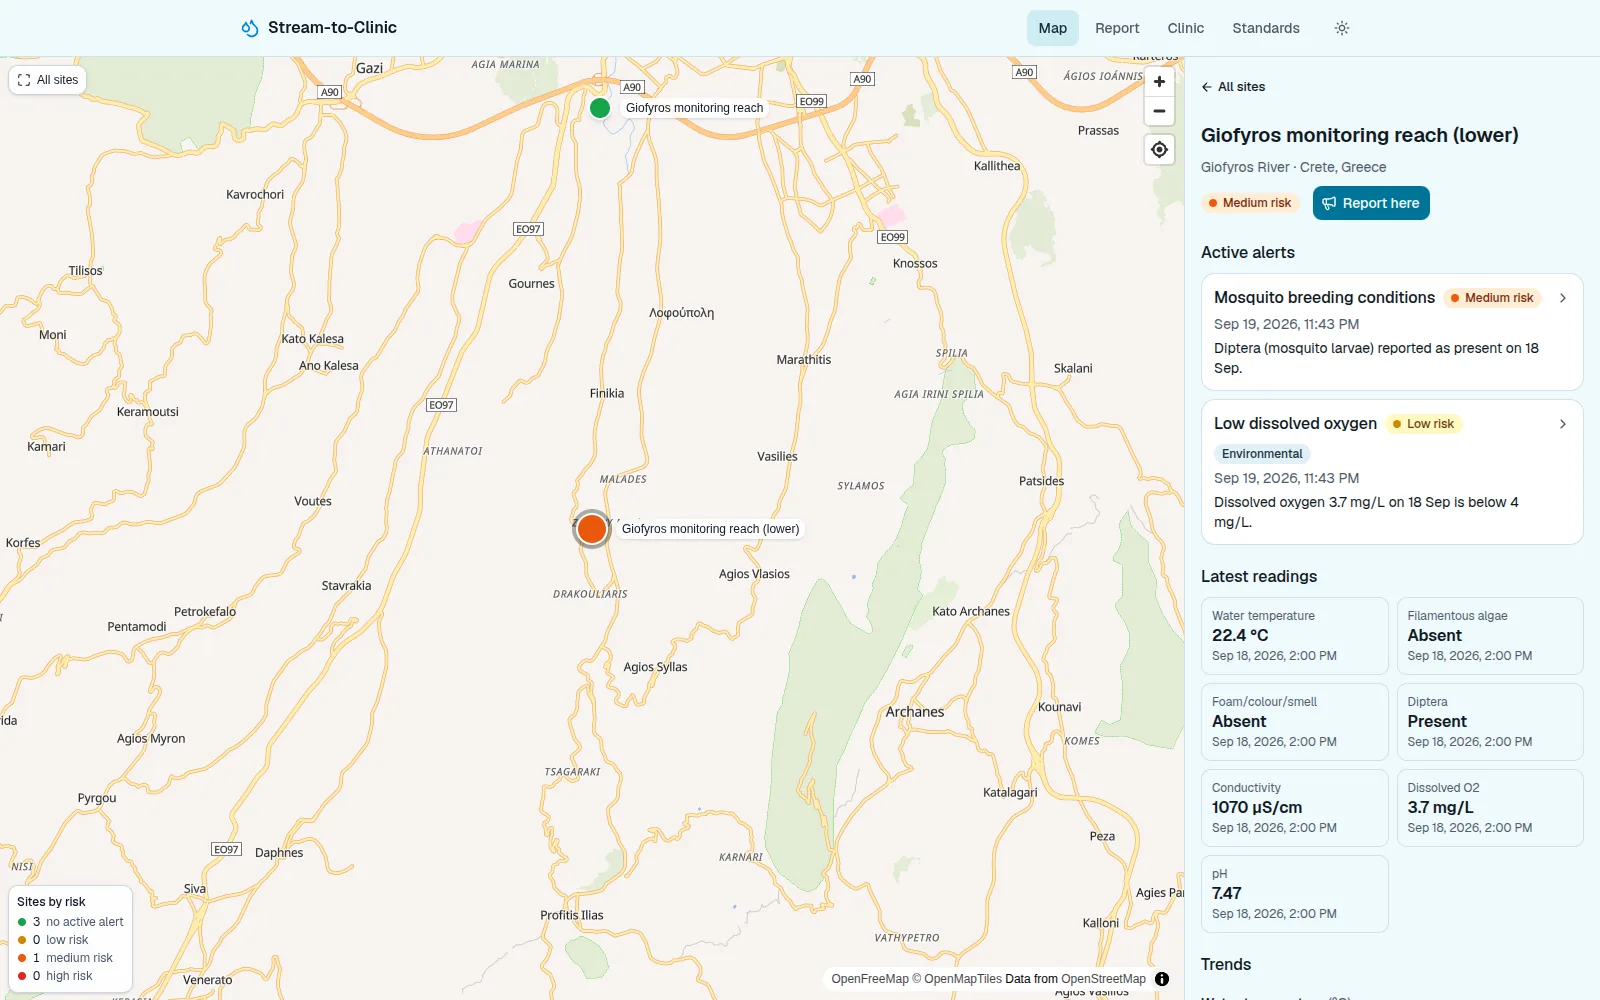
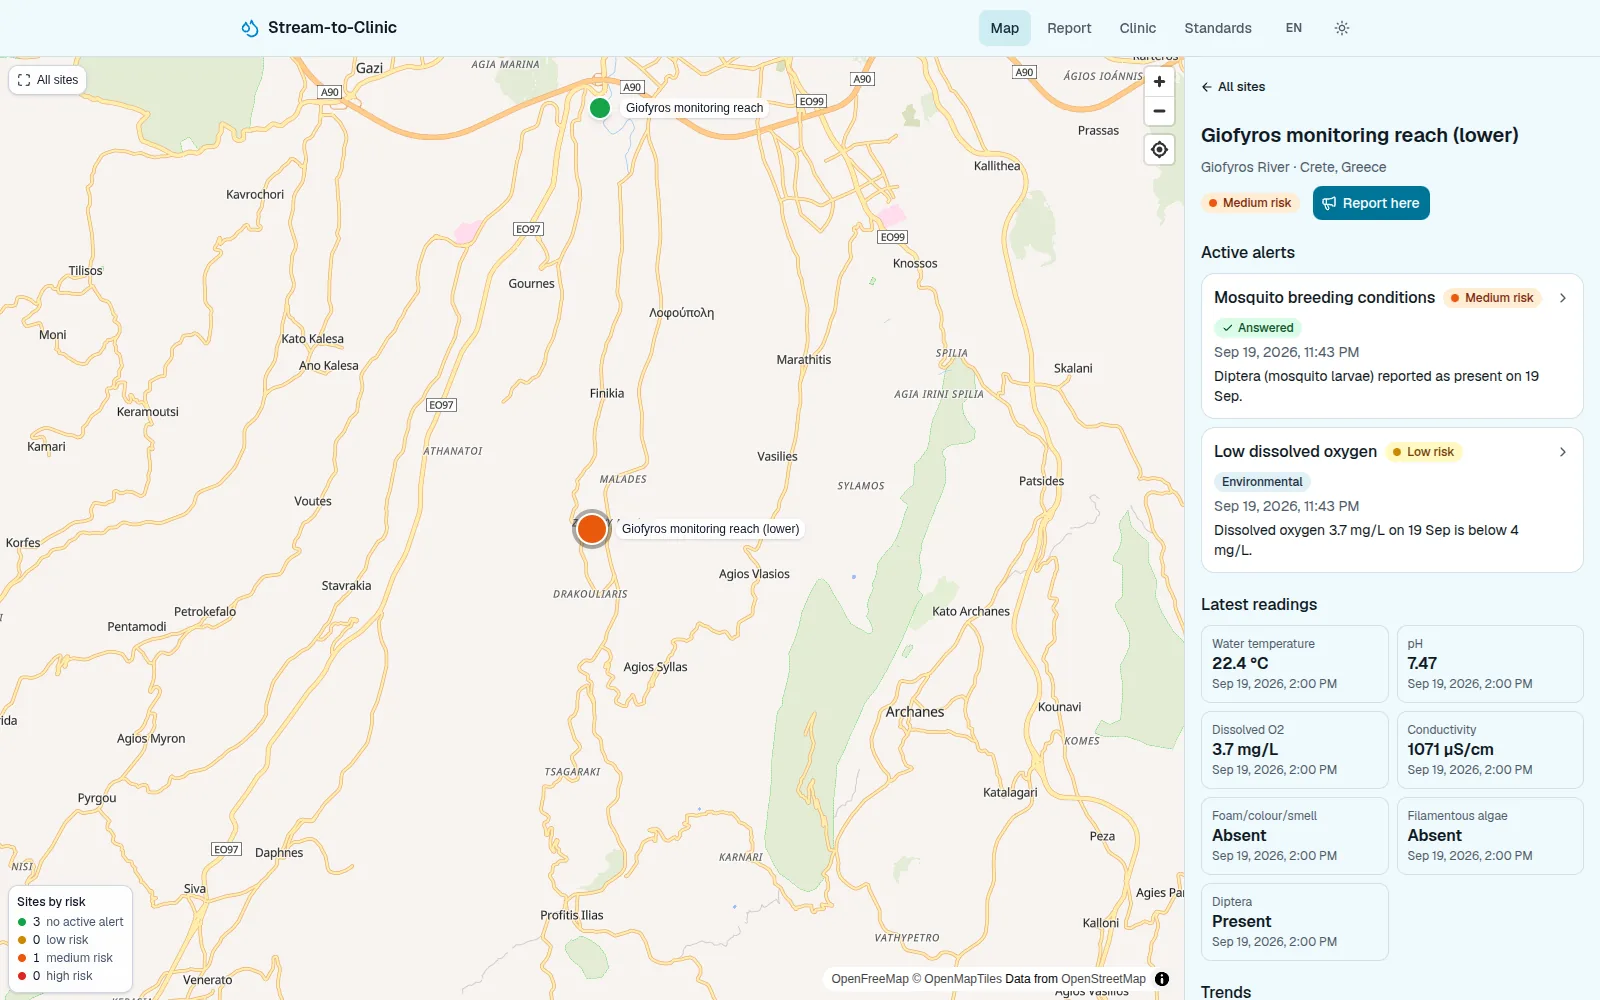
Refresh the screenshots for the clinic replies and Greek form

diff --git a/README.md b/README.md
@@ -39,9 +39,9 @@ Built for the [OneAquaHealth IEEE Global Hackathon](https://oneaquahealth-ieee-h
 
 ## Screenshots
 
-| Map and site detail | Report (phone) | Clinic alerts | Alert explained |
-|---|---|---|---|
-| ![Map with a site panel showing active alerts and latest readings](docs/screenshots/map.webp) | ![Report form on a phone](docs/screenshots/report.webp) | ![Clinic alert list](docs/screenshots/clinic.webp) | ![Alert detail with reasons, step-by-step narrative and FHIR links](docs/screenshots/alert.webp) |
+| Map and site detail | Report (phone) | The same form in Greek | Clinic alerts | Alert explained, answered |
+|---|---|---|---|---|
+| ![Map with a site panel showing active alerts and latest readings](docs/screenshots/map.webp) | ![Report form on a phone](docs/screenshots/report.webp) | ![The same report form rendered in Greek](docs/screenshots/report-el.webp) | ![Clinic alert list](docs/screenshots/clinic.webp) | ![Alert detail with reasons, a step-by-step narrative, the clinic responses and FHIR links](docs/screenshots/alert.webp) |
 
 ## Highlights
 
